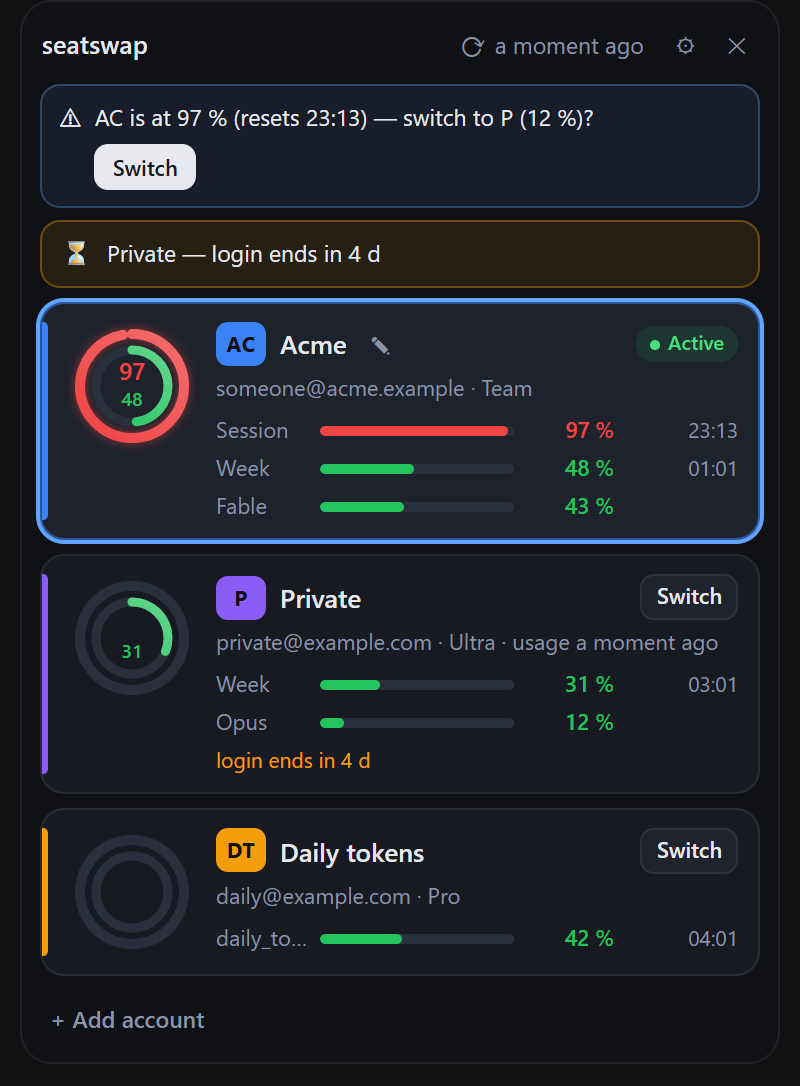
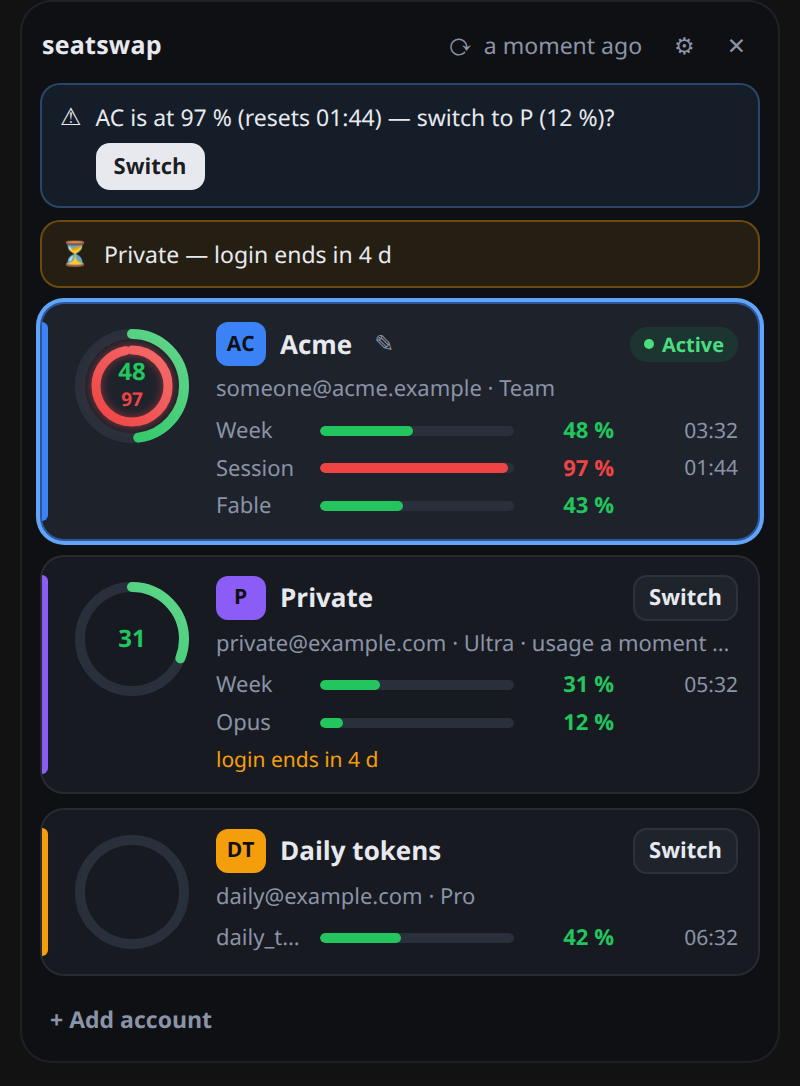
Pop-up: week on the outer ring, 5 h session inside
The week is the limit that matters most, so it gets the outer ring and
the large figure in the middle; the 5 h session moves to the inner ring.
Plans without a session limit (Ultra) no longer show an empty grey inner
track; the inner ring is left out and the week's figure sits centred.
The bars beside the gauge follow the same order: week, session, then the
per-model limits. Spec and README screenshots updated.

diff --git a/crates/app/ui/panel.js b/crates/app/ui/panel.js
@@ -802,10 +802,10 @@ function renderCard(view, index) {
     main.appendChild(renderLoggedOut());
   } else {
     const rows = [];
-    const session = findLimit(view, "session");
-    if (session) rows.push(renderUsageRow("Session", session, true));
     const week = findLimit(view, "weekly_all");
     if (week) rows.push(renderUsageRow("Week", week, true));
+    const session = findLimit(view, "session");
+    if (session) rows.push(renderUsageRow("Session", session, true));
     for (const scoped of scopedLimits(view)) {
       rows.push(renderUsageRow(scoped.model || "Scoped", scoped, false));
     }
@@ -917,25 +917,33 @@ function renderGauge(view) {
   const session = findLimit(view, "session");
   const week = findLimit(view, "weekly_all");
 
+  // Outer ring: the week (the limit that matters most). Inner ring: the 5 h
+  // session, left out entirely on plans that have no session limit.
   setupArc(
     gauge,
     gauge.querySelector(".ring-arc.ring-outer"),
-    gauge.querySelector(".grad-session"),
-    session,
-    view,
-    "session"
-  );
-  setupArc(
-    gauge,
-    gauge.querySelector(".ring-arc.ring-inner"),
     gauge.querySelector(".grad-week"),
     week,
     view,
     "week"
   );
+  setupArc(
+    gauge,
+    gauge.querySelector(".ring-arc.ring-inner"),
+    gauge.querySelector(".grad-session"),
+    session,
+    view,
+    "session"
+  );
 
+  const weekText = gauge.querySelector(".gauge-week");
+  setGaugeText(weekText, week);
   setGaugeText(gauge.querySelector(".gauge-session"), session);
-  setGaugeText(gauge.querySelector(".gauge-week"), week);
+  if (!session) {
+    gauge.querySelector(".ring-track.ring-inner").remove();
+    // Alone in the middle: centre the week's figure vertically.
+    weekText.setAttribute("y", "36");
+  }
   return gauge;
 }
 

diff --git a/crates/app/ui/index.html b/crates/app/ui/index.html
@@ -50,8 +50,8 @@
       <circle class="ring-arc ring-outer" cx="32" cy="32" r="26" transform="rotate(-90 32 32)"></circle>
       <circle class="ring-track ring-inner" cx="32" cy="32" r="18"></circle>
       <circle class="ring-arc ring-inner" cx="32" cy="32" r="18" transform="rotate(-90 32 32)"></circle>
-      <text class="gauge-session" x="32" y="29" text-anchor="middle"></text>
-      <text class="gauge-week" x="32" y="42" text-anchor="middle"></text>
+      <text class="gauge-week" x="32" y="29" text-anchor="middle"></text>
+      <text class="gauge-session" x="32" y="42" text-anchor="middle"></text>
     </svg>
   </template>
 

diff --git a/crates/app/ui/panel.css b/crates/app/ui/panel.css
@@ -666,7 +666,7 @@ input[type="checkbox"] {
   filter: drop-shadow(0 0 2.5px rgba(239, 68, 68, 0.55));
 }
 
-.gauge-session {
+.gauge-week {
   font-family: Inter, system-ui, sans-serif;
   font-size: 12px;
   font-weight: 600;
@@ -674,7 +674,7 @@ input[type="checkbox"] {
   fill: var(--text);
 }
 
-.gauge-week {
+.gauge-session {
   font-family: Inter, system-ui, sans-serif;
   font-size: 9.5px;
   font-weight: 600;

diff --git a/docs/spec.md b/docs/spec.md
@@ -526,7 +526,7 @@ The target is somewhere between the macOS Control Centre and Raycast: one floati
   - Dark: background `#0f1115`, cards `#171a21`, text `#e7e9ee`, muted text `#8b93a7`.
   - Light: background `#f6f7f9`, cards `#ffffff`, text `#0f1115`.
 - **Type:** Inter, or the system UI font as a fallback. Numbers use tabular figures so percentages don't jitter.
-- **Gauges:** two concentric rings per account. The outer ring is the 5 h session, the inner the week.
+- **Gauges:** two concentric rings per account. The outer ring is the week, the inner the 5 h session; the week's percent is the large figure in the middle. The bars beside the gauge follow the same order: week, then session, then the per-model limits. On a plan without a session limit the inner ring is left out (no grey track) and the week's figure sits centred.
   - Rings fill with an ease-out animation (400 ms) when the pop-up opens and when values change.
   - Colours follow §7.3, drawn as a soft gradient along the arc, with a faint glow on the red state.
 - **Account colour:** a 3 px accent bar on the card's left edge and the abbreviation badge.
@@ -542,15 +542,15 @@ The target is somewhere between the macOS Control Centre and Raycast: one floati
 │  seatswap                           ⟳ 12 s ago  ⚙  ✕ │
 │                                                      │
 │ ▌╭────╮  AC  Acme ✎                       ● Active   │
-│ ▌│ 97 │  someone@… · Team                            │
-│ ▌│ 48 │  Session   ████████████████████▉  97 % 1h12m │
-│ ▌╰────╯  Week      █████████▋             48 %  Sun  │
+│ ▌│ 48 │  someone@… · Team                            │
+│ ▌│ 97 │  Week      █████████▋             48 %  Sun  │
+│ ▌╰────╯  Session   ████████████████████▉  97 % 1h12m │
 │ ▌        Fable     ████████▋              43 %       │
 │                                                      │
 │ ▌╭────╮  P   Private                       [ Switch ]│
-│ ▌│ 12 │  …@example.com · Ultra                       │
-│ ▌│ 31 │  Session   ██▍                    12 %  3h05 │
-│ ▌╰────╯  Week      ██████▏                31 %  Thu  │
+│ ▌│ 31 │  …@example.com · Ultra                       │
+│ ▌│    │  Week      ██████▏                31 %  Thu  │
+│ ▌╰────╯  Opus      ██▍                    12 %       │
 │                                                      │
 │  ⚠ AC is almost out. P has room — switch?   [Switch] │
 │                                                      │
